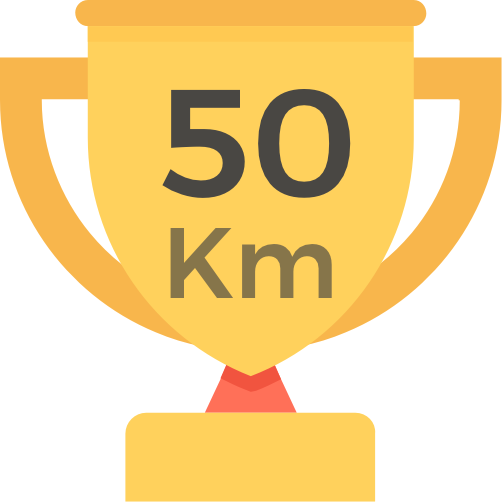
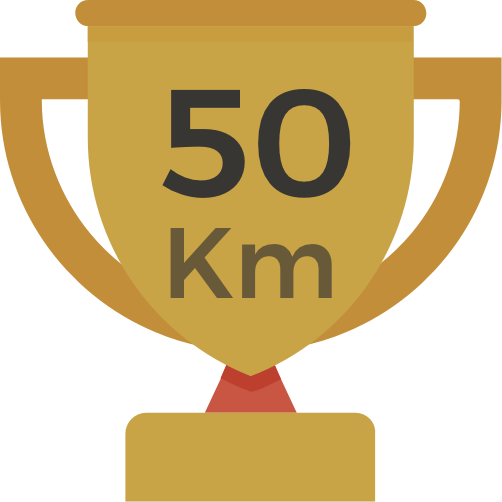
color back to

diff --git a/app/assets/stylesheets/config/_colors.scss b/app/assets/stylesheets/config/_colors.scss
@@ -11,7 +11,8 @@ $gray: #EEF0F2;
 $blue: #3E92A3;
 $light-gray: #DFE0D4;
 $dark-gray: #353940;
-$dog-runner-color: #388E3C;
+$dog-runner-color: #91c681;
 $dog-runner-bg-color: white;
 $dog-runner-font-color: $dark-gray;
 
+// 8ea78e

diff --git a/app/controllers/pages_controller.rb b/app/controllers/pages_controller.rb
@@ -32,7 +32,7 @@ class PagesController < ApplicationController
     end
 
     @dog_runs << all_stats
-    @hash.first.merge!(picture: {url: ActionController::Base.helpers.asset_path("green-dog-darker.png"), width:50, height:50 })
+    @hash.first.merge!(picture: {url: ActionController::Base.helpers.asset_path("green_dog.png"), width:50, height:50 })
   end
 
 
